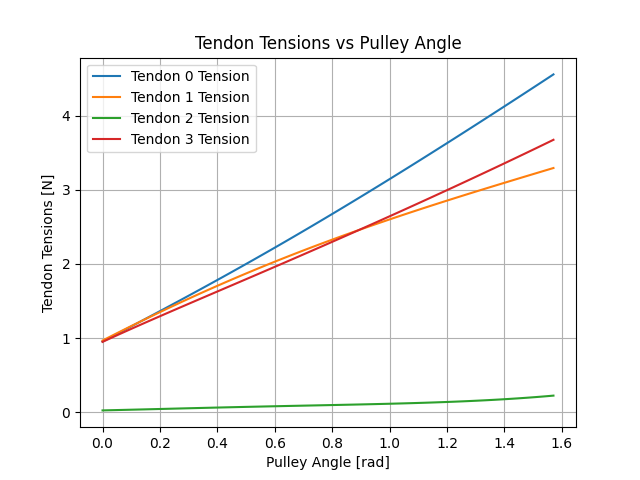
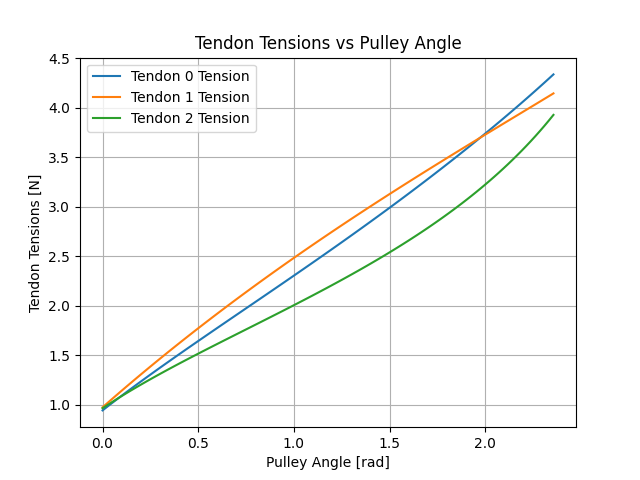
Introduced the 2 phalanxes finger

diff --git a/main.py b/main.py
@@ -45,14 +45,14 @@ def main():
     p_r = 0.001
 
 
-    r_joints = [0.006, 0.005, 0.004]  # Three joints
-    r_tip = 0.003
-    L_phalanxes = [0.04, 0.03, 0.02]
+    r_joints = [0.006, 0.005]  # Three joints
+    r_tip = 0.004
+    L_phalanxes = [0.04, 0.03]
     b_a_metacarpal = 0.006
-    l_a = [1, 0, 0]
-    l_b = [0, 0, 0]
-    l_c = [0, 0, 0]
-    l_d = [0, 0, 0]
+    l_a = [0, 0]
+    l_b = [0, 0]
+    l_c = [0, 0]
+    l_d = [0, 0]
 
     for i_iter in range(len(r_joints)):
 
@@ -69,10 +69,8 @@ def main():
 
         if (i_iter == 0):
             l_a[i_iter] = 2*f_1*r_1
-        elif(i_iter==2):
-            l_a[i_iter] = (0.004 + 2*f_2*r_1)*cos(beta)
         else:
-            l_a[i_iter] = (2*f_2*r_1)*cos(beta)
+            l_a[i_iter] = (0.004 + 2*f_2*r_1)*cos(beta)
 
         l_b[i_iter] = f_1*r_1*cos(beta)
 
@@ -86,21 +84,21 @@ def main():
 
 
 
-    inf_stiff_tendons = [1, 1, 1, 1]
-    k_tendons = [0, 0, 0, 0]
+    inf_stiff_tendons = [1, 1, 1]
+    k_tendons = [0, 0, 0]
     l_springs = [0.003, 0.003]
     l_0_springs = [0, 0]
     k_springs = [320, 320]
-    pulley_radius_functions = [lambda x: 0.01, lambda x: 0.0125]
-    tendon_joint_interface = [["e", "t", "e"], ["t", "e", "n"], ["f", "f", "n"], ["f", "f", "f"]]
-    tendon_spring_interface = [[1, 0], [0, 1], [0, 0], [0, 0]]
-    tendon_pulley_interface = [[0, 0], [0, 0], [1, 0], [0, 1]]
+    pulley_radius_functions = [lambda x: 0.01]
+    tendon_joint_interface = [["e", "n"], ["t", "e"], ["f", "f"]]
+    tendon_spring_interface = [[1, 0], [0, 1],[0, 0]]
+    tendon_pulley_interface = [[0], [0], [1]]
 
     finger = Finger(name, r_joints, r_tip, L_phalanxes, l_a, l_b, b_a_metacarpal, l_c, l_d, inf_stiff_tendons, k_tendons, l_springs, l_0_springs, k_springs, pulley_radius_functions, tendon_joint_interface, tendon_spring_interface, tendon_pulley_interface)
 
     # Simulation parameters
     num_simulations = 100
-    pulley_angles = np.linspace(0, np.pi / 2, num_simulations)
+    pulley_angles = np.linspace(0, 3 * np.pi / 4, num_simulations)
 
     # Run the simulation
     joint_angles, tendon_tensions, motor_torque, errors = run_simulation(finger, pulley_angles)

diff --git a/plot_functions/plot_finger.py b/plot_functions/plot_finger.py
@@ -87,7 +87,7 @@ def plot_finger(ax,joint_angles,r_joints,r_tip,L_phalanxes):
         
     l_max = l_max + 2*r_tip
     ax.set_xlim(-r_joints[0],l_max)
-    ax.set_ylim(-r_joints[0],l_max)
+    ax.set_ylim(-l_max,l_max)
 
     # we set the ticks to be invisible
     ax.set_xticks([])
